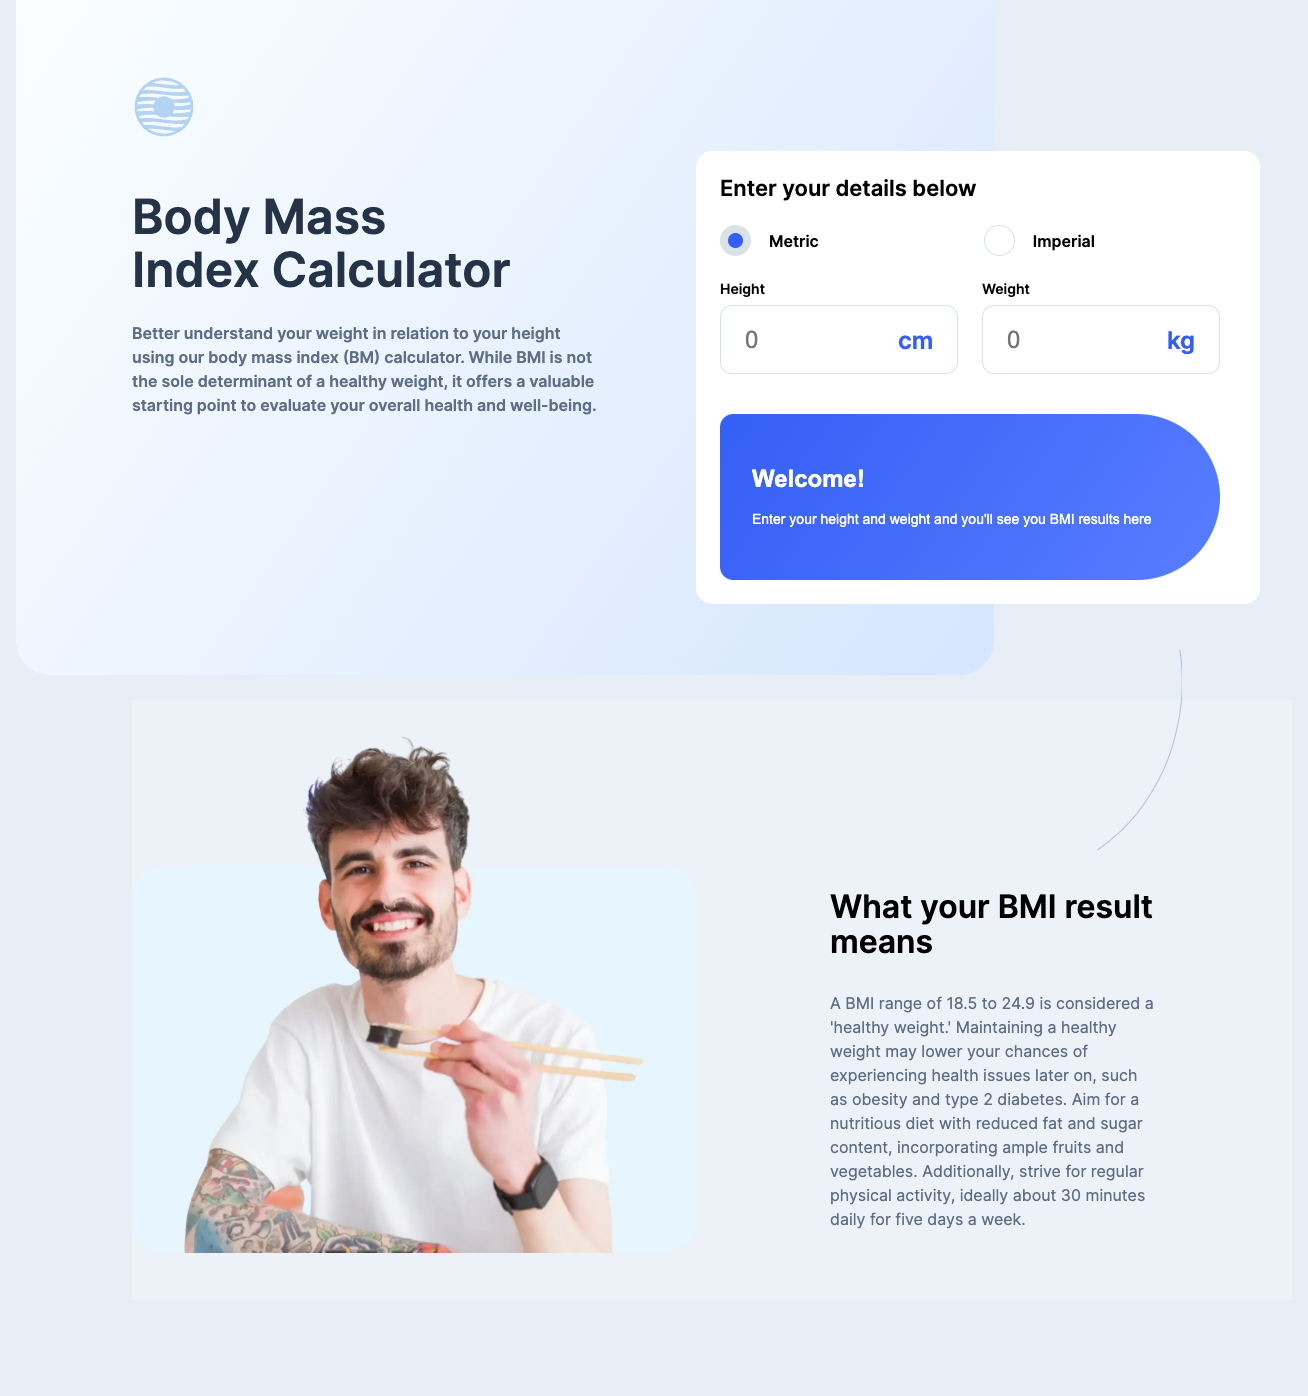
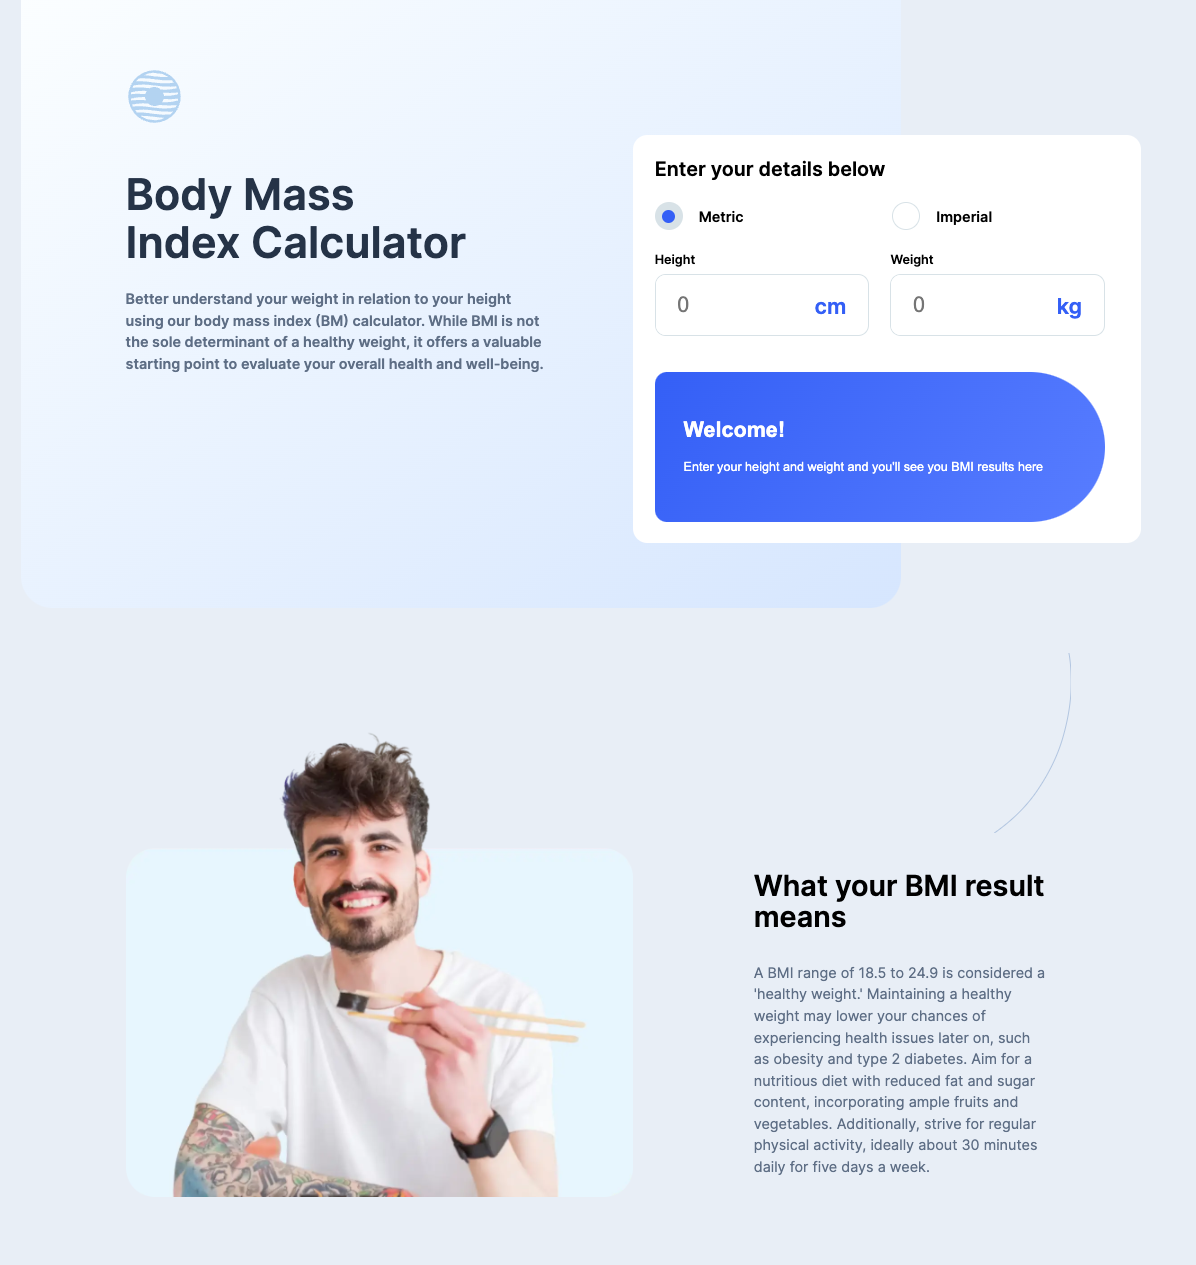
CSS updates

diff --git a/assets/css/app.css b/assets/css/app.css
@@ -28,7 +28,7 @@ HERO
   width: 375px;
   height: 640px;
   margin: 0 auto;
-  background: linear-gradient(125deg, #fbfeff 0%, #D6E6FE 100%);
+  background: linear-gradient(to right bottom, #fbfeff 0, #D6E6FE);
   position: absolute;
   border-radius: 0 0 35px 35px;
   z-index: -1;
@@ -131,8 +131,8 @@ HERO - BMI Calculator
   justify-content: space-between;
   border: 1px solid #d8e2e7;
   border-radius: 12px;
-  padding: 20px 24px;
   text-align: left;
+  overflow: hidden;
 }
 
 .input:focus-within {
@@ -141,6 +141,9 @@ HERO - BMI Calculator
 
 .input__field {
   width: 127px;
+  flex: 1;
+  padding: 20px 24px;
+  padding-right: 0;
 }
 
 .input__field::-webkit-outer-spin-button,
@@ -178,9 +181,12 @@ HERO - BMI Calculator
 .unit {
   display: inline-block;
   color: #345ff6;
-  width: 35px;
+  width: 100px;
   margin-left: 60px;
   text-align: right;
+  padding: 20px 0;
+  padding-right: 24px;
+
 }
 
 .form__inputs {
@@ -273,17 +279,6 @@ MAIN
   position: relative;
 }
 
-.your-result::before {
-  content: "";
-  width: 375px;
-  height: 522px;
-  background: #fff;
-  display: block;
-  position: absolute;
-  top: 300px;
-  z-index: -1;
-}
-
 .your-result img {
   width: 100%;
   margin-bottom: 48px;
@@ -308,6 +303,9 @@ MAIN
 
 .tips {
   padding: 56px 20px;
+  background: linear-gradient(to right bottom, rgba(250, 254, 255, 0.3), rgba(214, 231, 255, 0.2));
+  margin-bottom: 56px;
+  border-radius: 20px;
 }
 
 .tip {
@@ -334,9 +332,11 @@ MAIN
 }
 
 .bmi-limit {
-  padding: 72px 24px 96px;
+  padding: 24px;
   text-align: center;
-  background: linear-gradient(#fbfeff 5%, #D6E6FE 95%);
+  background: linear-gradient(to right bottom, rgba(250, 254, 255, 0.3), rgba(214, 231, 255, 0.2));
+  border-radius: 20px;
+  margin-bottom: 96px;
 }
 
 .bmi-limit > div > p {
@@ -490,7 +490,7 @@ MAIN
 @media screen and (min-width: 1440px) {
   .container {
     width: 1440px;
-    margin: 0 auto;
+    margin: 0 auto 96px;
     position: relative;
   }
 
@@ -501,7 +501,7 @@ MAIN
     display: block;
     background: url("../images/pattern-curved-line-left.svg") no-repeat;
     position: absolute;
-    top: 650px;
+    top: 725px;
     right: 250px;
   }
 
@@ -512,8 +512,8 @@ MAIN
     display: block;
     background: url("../images/pattern-curved-line-right.svg") no-repeat;
     position: absolute;
-    bottom: 350px;
-    left: 300px;
+    bottom: 400px;
+    left: 325px;
   }
 
   .hero {
@@ -593,6 +593,7 @@ MAIN
   .your-result {
     width: 1160px;
     transform: none;
+    margin-top: 150px;
     margin-left: auto;
     margin-right: auto;
     align-items: flex-end;
@@ -622,7 +623,7 @@ MAIN
   .bmi-limit {
     width: 1160px;
     height: 754px;
-    margin: auto;
+    margin: 56px auto 0;
     display: flex;
     text-align: left;
     position: relative;
